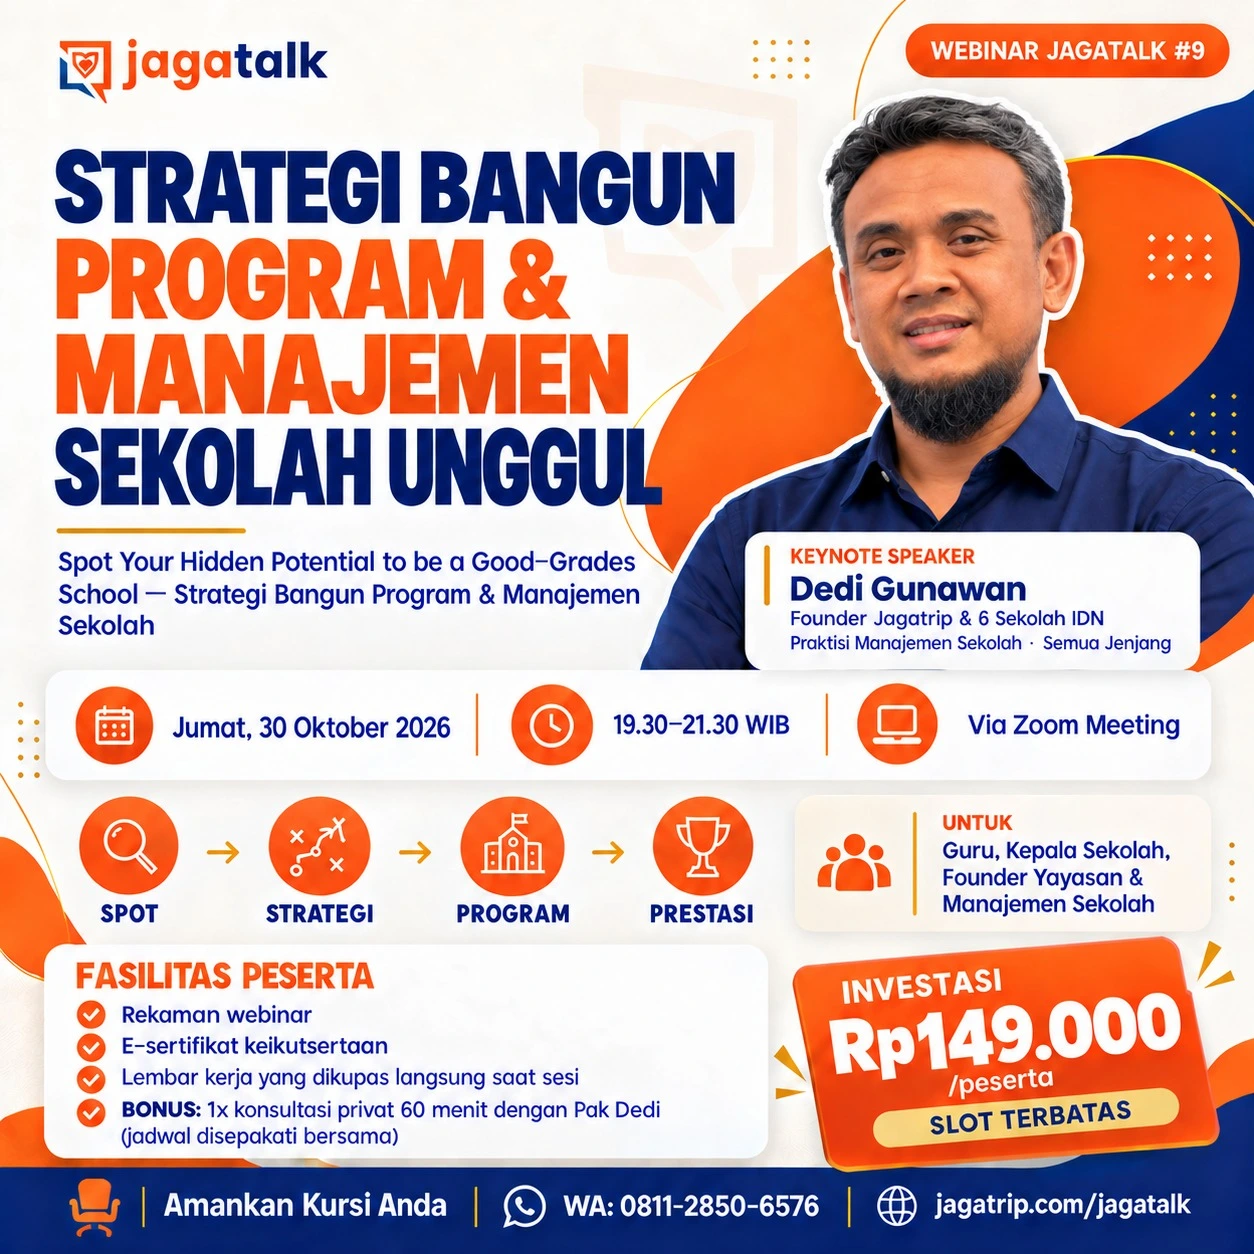
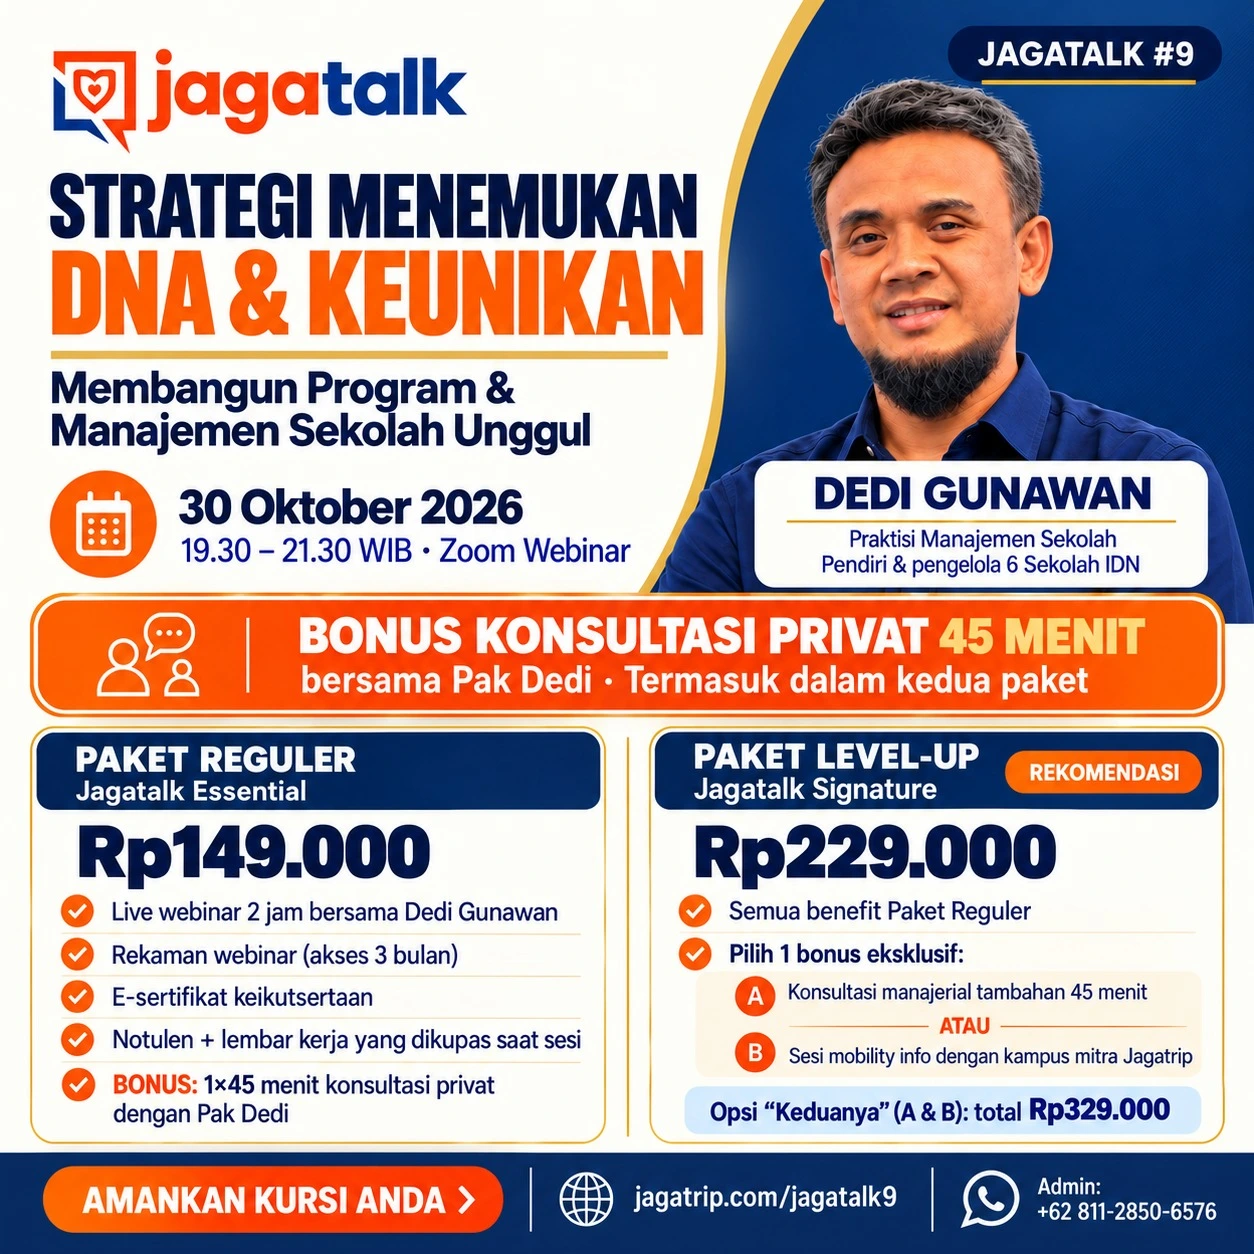
feat: update title jagatal9 and update for readme.md

diff --git a/docs/dev/api.md b/docs/dev/api.md
@@ -1,0 +1,240 @@
+# API — endpoint yang dipakai & disediakan repo ini
+
+Referensi untuk developer: semua HTTP endpoint yang **dipanggil** kode
+(Supabase REST/Auth/Storage, Google Apps Script) dan yang **disediakan**
+Worker (`/sitemap.xml`). Beda dengan `architecture.md` (kenapa desainnya
+begini) dan `database.md` (skema tabel) — file ini cuma kontrak request/
+response. Key/auth lihat `security.md`.
+
+Catatan: **tidak ada backend API buatan sendiri** di repo ini. Semua baca/tulis
+data langsung ke Supabase via REST (tanpa SDK) dan form LP ke Apps Script.
+
+## 1. Peta pemanggil
+
+| Pemanggil | Endpoint | Auth | Lokasi kode |
+|---|---|---|---|
+| Halaman publik (SSR Worker) | `GET /rest/v1/content` | anon | `src/lib/repo.ts` |
+| Admin (browser) | `/auth/v1/*`, `/rest/v1/content`, `/storage/v1/object/media/*` | anon + JWT user | `src/dc/admin.html` (`sbAuth`, `sbData`) |
+| `bun run seed` | `GET/POST /rest/v1/content` | service role | `scripts/seed.ts` |
+| `bun run keepalive` / cron GitHub | `GET /rest/v1/<KEEPALIVE_TABLE>` | anon | `scripts/keepalive.ts` |
+| Form LP (browser) | `POST <APPS_SCRIPT_URL>` | tidak ada (`no-cors`) | `src/pages/*.astro`, `src/legacy/lib/*-handler.ts` |
+| Crawler | `GET /sitemap.xml` | publik | `src/pages/sitemap.xml.ts` |
+
+Base URL Supabase = `PUBLIC_SUPABASE_URL` (format `https://<ref>.supabase.co`).
+
+## 2. Supabase REST — `public.content`
+
+Satu baris per section admin; `key` = nama section (`site`, `programs`,
+`events`, `articles`, …), `data` = jsonb dengan shape persis `DEFAULTS` di
+`admin.html` / `src/data/defaults.ts`.
+
+### 2.1 Baca semua section
+
+```http
+GET {URL}/rest/v1/content?select=key,data
+apikey: <anon>
+Authorization: Bearer <anon | access_token>
+```
+
+Response `200`:
+
+```json
+[{ "key": "site", "data": { "siteName": "JAGATRIP", "...": "..." } }, { "key": "programs", "data": [ ] }]
+```
+
+- `repo.ts`: hanya `apikey` (tanpa `Authorization`), hasil di-`merge()` ke
+  defaults, cache 30 detik per isolate. Non-2xx / network error → log
+  `[repo] Supabase gagal, pakai defaults` dan kembalikan `defaults.ts`.
+- Admin (`sbData.load`): header `sbAuth.headers()`; non-2xx → error
+  "Gagal memuat konten (<status>). Sudah jalankan migration SQL?".
+
+### 2.2 Upsert section
+
+```http
+POST {URL}/rest/v1/content?on_conflict=key
+apikey: <anon>
+Authorization: Bearer <access_token>
+Content-Type: application/json
+Prefer: resolution=merge-duplicates,return=minimal
+
+[{ "key": "site", "data": { }, "updated_by": "admin@jagatrip.com" }, ...]
+```
+
+Response `201` tanpa body (`return=minimal`).
+
+- Admin (`sbData.save`) selalu kirim **semua** key dari `DEFAULTS` dalam satu
+  request (bukan hanya section yang berubah). `401` → "Sesi habis. Login
+  ulang."; status lain → "Gagal menyimpan ke server (<status>)".
+- Seed (`scripts/seed.ts`) pakai service role; tanpa `--force` hanya kirim
+  key yang belum ada (cek dulu `GET …?select=key`).
+- RLS: `select` untuk anon, `insert/update` hanya `authenticated` — lihat
+  `database.md`.
+
+### 2.3 Keepalive
+
+```http
+GET {URL}/rest/v1/{KEEPALIVE_TABLE}?select=id&limit=1
+```
+
+Default tabel `keepalive`. Tujuan cuma bikin project free-tier tidak
+di-pause; respons tidak dipakai.
+
+## 3. Supabase Auth (GoTrue) — admin
+
+Dipakai `sbAuth` di `admin.html`. Header baku:
+`apikey: <anon>`, `Authorization: Bearer <access_token ?? anon>`,
+`Content-Type: application/json`.
+
+| Method `sbAuth` | Request | Respons / perlakuan |
+|---|---|---|
+| `signIn(email, pw)` | `POST /auth/v1/token?grant_type=password` body `{email,password}` | `200` → objek sesi (`access_token`, `refresh_token`, `user`), disimpan utuh di `localStorage["jagatrip-cms-auth"]`. `400` → "Email atau password salah." |
+| `refresh(refresh_token)` | `POST /auth/v1/token?grant_type=refresh_token` body `{refresh_token}` | `200` → sesi baru; selain itu `null` (user diminta login ulang). Hanya dipanggil saat mount jika `user()` gagal. |
+| `user(access_token)` | `GET /auth/v1/user` | `200` → user; `user_metadata.role === "super_admin"` → label Super Admin. Selain `200` → `null`. |
+| `signOut(access_token)` | `POST /auth/v1/logout` | best-effort, error diabaikan. |
+| Buat user (manual, bukan dari UI) | `POST /auth/v1/admin/users` dengan service role | lihat README §9. |
+
+Signup publik (`/auth/v1/signup`) **wajib dimatikan** di Dashboard —
+`security.md` §auth.
+
+## 4. Supabase Storage — bucket `media`
+
+Upload gambar admin (`sbData.upload`). Blob selalu `image/webp` (dikonversi
+di browser sebelum upload).
+
+```http
+POST {URL}/storage/v1/object/media/{name}
+apikey: <anon>
+Authorization: Bearer <access_token>
+Content-Type: image/webp
+Cache-Control: 31536000
+x-upsert: true
+
+<binary webp>
+```
+
+- `name`: kalau URL lama sudah berawalan
+  `{URL}/storage/v1/object/public/media/` → pakai nama file yang sama
+  (timpa in-place, tidak ada file yatim). Kalau tidak → `crypto.randomUUID()`
+  + `.webp`.
+- Return ke UI: `{URL}/storage/v1/object/public/media/{name}?v=<base36 timestamp>`
+  — query `?v=` memaksa browser/CDN ambil versi baru meski `Cache-Control`
+  panjang.
+- Non-2xx → "Upload gambar gagal (<status>). Bucket 'media' sudah dibuat?".
+- Baca gambar publik: `GET {URL}/storage/v1/object/public/media/{name}` tanpa
+  header (bucket public). Aturan operasional: `../files/supabase-rule.md`.
+
+## 5. Google Apps Script — form landing page
+
+Semua form LP kirim `POST` JSON ke URL deployment web app Apps Script dengan
+`mode: "no-cors"` → **respons tidak bisa dibaca browser**; sukses dianggap
+kalau `fetch` tidak throw, lalu user diarahkan ke WhatsApp. Aturan script:
+`../appscript/rule.md`.
+
+### 5.1 Request
+
+```http
+POST https://script.google.com/macros/s/<DEPLOYMENT_ID>/exec
+Content-Type: application/json   (kadang text/plain karena no-cors; script parse manual)
+
+{
+  "_sheet": "Partnership",
+  "nama": "…", "wa": "62…",
+  "timestamp": "2026-10-26T03:00:00.000Z",
+  "source": "https://jagatrip.com/partnership",
+  "utm_source": "", "utm_medium": "", "utm_campaign": "", "utm_term": "", "utm_content": "",
+  "gclid": "", "fbclid": ""
+}
+```
+
+- `_sheet` = nama tab tujuan di Spreadsheet; field lain bebas per LP (kolom
+  dicocokkan ke header sheet oleh script).
+- UTM/click-id diambil dari query string halaman (`getUtm()` /
+  `URLSearchParams`), kosong kalau tidak ada.
+
+### 5.2 Daftar `_sheet` per halaman
+
+| Halaman | `_sheet` | Deployment |
+|---|---|---|
+| `/register` (`src/legacy/lib/register-handler.ts`) | `Registrasi` | `…AKfycbw42POu…` — script `scripts/apps-script/registrasi.gs` |
+| `/partnership` | `Partnership` | `…AKfycbzBsDea…` |
+| `/jagatalk9` | `Jagatalk9` | `…AKfycbzKufC…` |
+| `/batch2` | `Batch3MYTH` | shared `…AKfycbwrwCUY…` |
+| `/batch3` | `Batch3` | shared |
+| `/batch3myth` | `Batch2` | shared |
+| `/china` | `China` | shared |
+| `/china2` | `China2` | shared |
+| `/chinask` | `China_SK` | shared |
+| `/jagatalk` | `LP_Jagatalk_Premium` | shared |
+| `/jagatalk02` | `LP_Jagatalk02` | shared |
+| `/jagatalk8` | `LP_Jagatalk8` | shared |
+| `/webinar` | `LP_Jagatalk` | shared |
+| `/nonformal` | `LP1_Nonformal` | shared |
+| `/promo` | `LP2_Promo` | shared |
+
+URL lengkap ada hardcoded di tiap file (`const APPS_SCRIPT_URL`). Perhatikan
+`batch2.astro` kirim `_sheet: 'Batch3MYTH'` dan `batch3myth.astro` kirim
+`_sheet: 'Batch2'` (tertukar sejak LP lama) — jangan "betulkan" tanpa cek
+sheet mana yang sedang dipakai CS.
+
+### 5.3 Payload khusus `/register` (`registrasi.gs`)
+
+Selain field teks, field file dikirim sebagai **base64 polos** (tanpa prefix
+`data:`), maks 5 MB per file, plus metadata:
+
+```json
+{
+  "_sheet": "Registrasi",
+  "nama_lengkap": "…", "wa": "…", "email": "…",
+  "file_paspor": "<base64>", "file_paspor_name": "paspor.jpg", "file_paspor_type": "image/jpeg",
+  "file_ktp": "…", "file_pas_foto_visa": "…", "file_ktp_kk": "…",
+  "file_itinerary_visa": "…", "file_saldo_rekening": "…", "file_bukti_transfer": "…"
+}
+```
+
+Script simpan file ke subfolder Drive per jenis (`Paspor/`, `KTP/`, …),
+ganti nilai field jadi URL Drive, lalu tulis baris sesuai
+`JGT_REG_HEADER_MAP`. Kolom `No` dan `Status` (`"Baru"`) diisi script.
+Detail: `../appscript/registrasi.md`, `../files/registrasi.md`.
+
+### 5.4 Respons script (tidak terbaca browser, berguna saat test via curl)
+
+| Method | Body |
+|---|---|
+| `GET /exec` | `{"ok":true,"message":"JAGATRIP registrasi endpoint aktif","time":"…"}` — health check |
+| `POST /exec` sukses | `{"ok":true}` |
+| `POST /exec` gagal | `{"ok":false,"error":"<pesan>"}` (HTTP tetap 200) |
+
+Test manual:
+
+```bash
+curl -L -X POST "https://script.google.com/macros/s/<DEPLOYMENT_ID>/exec" \
+  -H "Content-Type: application/json" \
+  -d '{"_sheet":"Registrasi","nama_lengkap":"TEST","wa":"628000","source":"curl"}'
+```
+
+`-L` wajib — Apps Script selalu redirect 302 ke `script.googleusercontent.com`.
+
+## 6. Endpoint yang disediakan Worker
+
+| Route | File | Isi |
+|---|---|---|
+| `GET /sitemap.xml` | `src/pages/sitemap.xml.ts` | XML `urlset`: daftar statis `STATIC_PATHS` + `/news/<slug>` dari `getArticles()`. `Content-Type: application/xml`. Tidak di-cache khusus (ikut cache 30 dtk `repo.ts`). |
+| `GET /robots.txt` | `public/robots.txt` | statis |
+| `GET /news/<slug>` | `src/pages/news/[slug].astro` | SSR; slug tidak ada / status bukan `Published` → `404`. |
+
+Semua halaman lain = HTML SSR biasa, bukan API.
+
+## 7. Error & fallback ringkas
+
+| Sumber | Gagal | Perilaku |
+|---|---|---|
+| `repo.ts` → Supabase | network / non-2xx / env kosong | tampilkan `defaults.ts`, log warn, cache dikosongkan supaya request berikut coba lagi |
+| Admin load/save | `401` | pesan "Sesi habis", user login ulang (refresh token hanya dicoba saat mount) |
+| Admin upload | non-2xx | pesan error, gambar lama tetap |
+| Form LP → Apps Script | apa pun | tidak terdeteksi (no-cors); user tetap diarahkan ke WA — CS cross-check sheet |
+
+ponytail: URL Apps Script hardcoded per halaman dan satu deployment dipakai
+banyak LP (tabel §5.2) — tidak ada env/registry tunggal. Upgrade: pindahkan ke
+`src/data/defaults.ts` (section `site`) atau tabel `content` kalau URL mulai
+sering berubah; tambahkan endpoint relay di Worker kalau butuh baca respons
+Apps Script (hilangkan `no-cors`).

diff --git a/docs/README.md b/docs/README.md
@@ -24,6 +24,7 @@ docs/
 │   ├── database.md           # skema Supabase, RLS, migration, seed, backup
 │   ├── deployment.md         # Cloudflare, env, checklist rilis, rollback
 │   ├── security.md           # model ancaman, key, auth, scan, insiden
+│   ├── api.md                # kontrak endpoint Supabase/Apps Script/Worker yang dipakai kode
 │   └── troubleshooting.md    # gejala → sebab → fix → cegah, lintas sistem
 └── <domain-baru>/            # tambah hanya jika ≥2 file dengan topik serumpun
 ```
@@ -104,6 +105,7 @@ temannya. Contoh kandidat: `deploy/` (Cloudflare, env, rollback),
 | `dev/database.md` | dev | tabel `content`/`keepalive`, bucket `media`, RLS, migration, seed, backup |
 | `dev/deployment.md` | dev | Cloudflare Workers Builds, env, checklist rilis, rollback, monitoring |
 | `dev/security.md` | dev | model ancaman, penempatan key, auth admin, scan Trivy/CodeQL, insiden |
+| `dev/api.md` | dev | request/response Supabase REST/Auth/Storage, Apps Script form LP, `/sitemap.xml` |
 | `dev/troubleshooting.md` | dev | gejala → sebab → fix → cegah untuk build, Worker, admin, lokal, Apps Script |
 
 Batas `dev/` vs folder lain: `dev/` untuk orang yang mengubah kode/infra;

diff --git a/README.md b/README.md
@@ -449,6 +449,7 @@ docs/
     ├── database.md             # skema Supabase, RLS, migration, seed, backup
     ├── deployment.md           # Cloudflare, env, checklist rilis, rollback
     ├── security.md             # model ancaman, key, auth, scan, insiden
+    ├── api.md                  # kontrak endpoint Supabase / Apps Script / Worker
     └── troubleshooting.md      # gejala → sebab → fix → cegah lintas sistem
 ```
 
